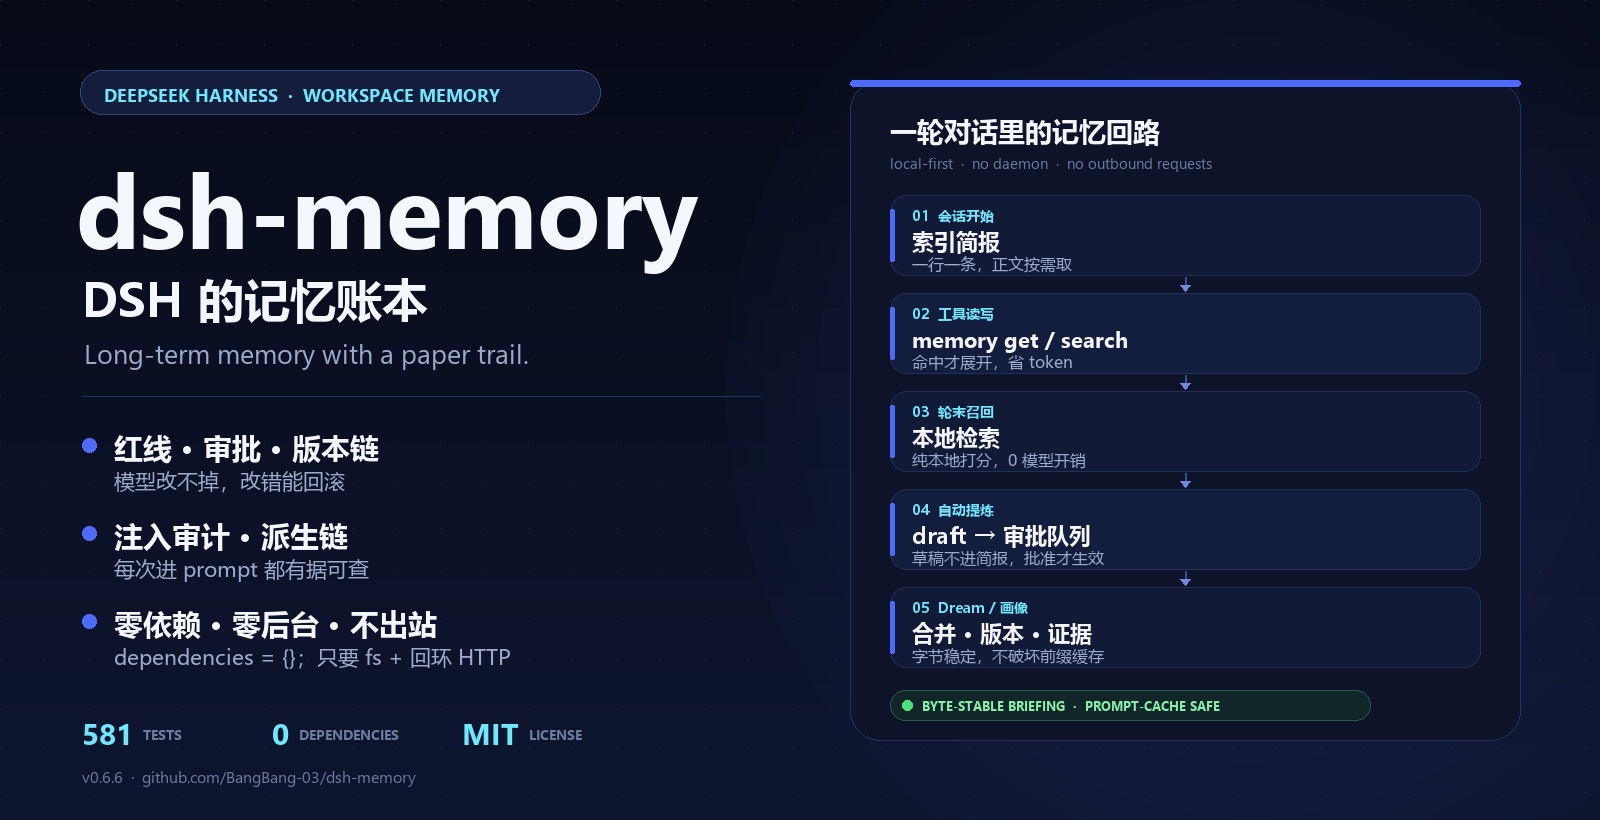
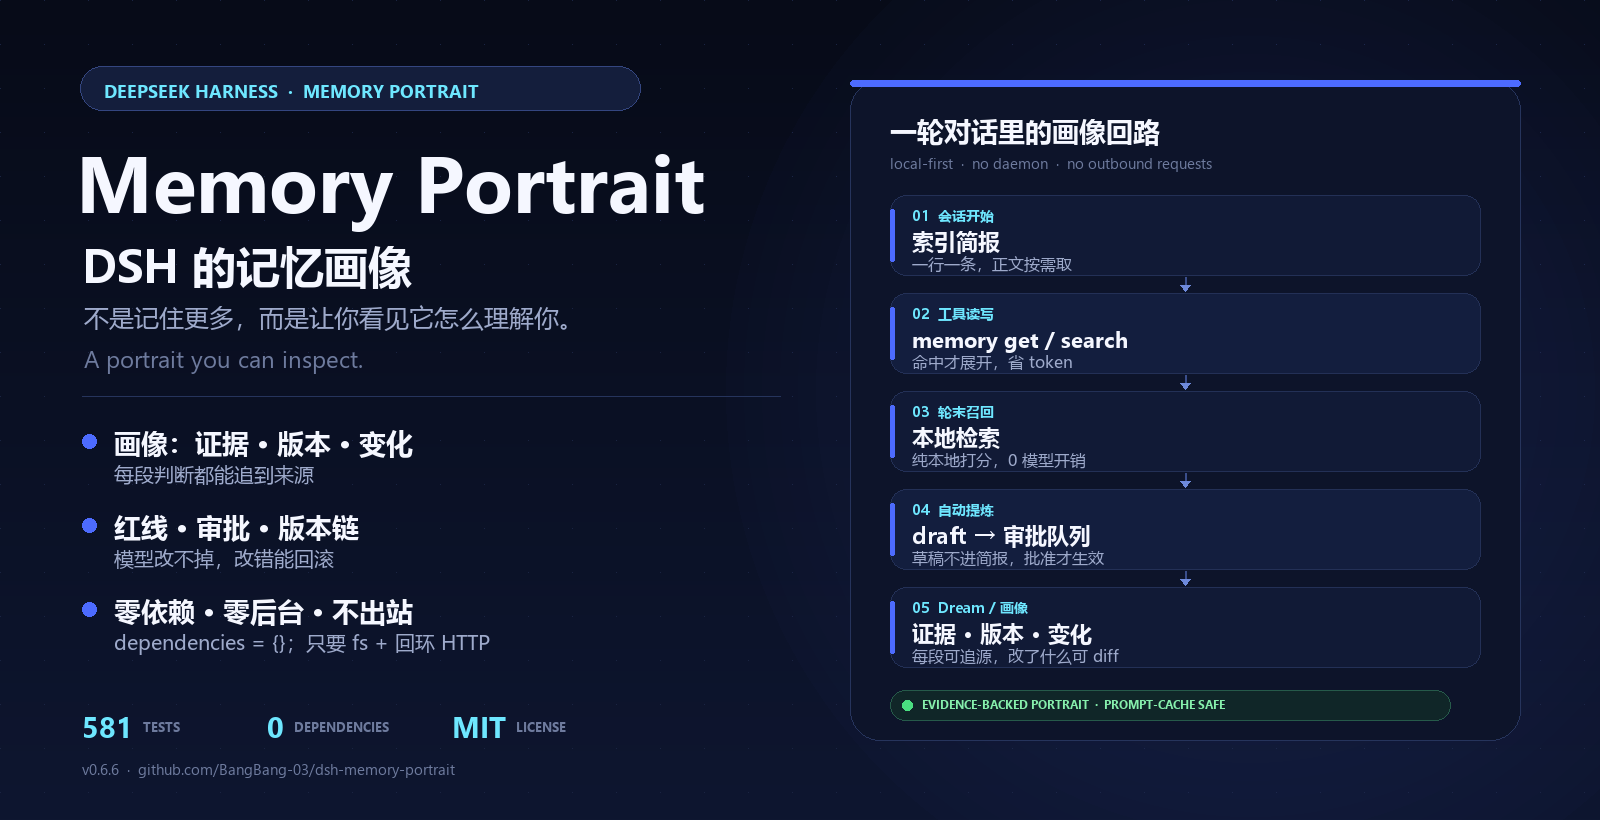
refactor: rename project to Memory Portrait (dsh-memory-portrait)

diff --git a/README.md b/README.md
@@ -1,27 +1,31 @@
-# dsh-memory
+# Memory Portrait · 记忆画像
 
-[![Release](https://img.shields.io/github/v/release/BangBang-03/dsh-memory?color=4d6bfe&label=release)](https://github.com/BangBang-03/dsh-memory/releases/latest)
+[![Release](https://img.shields.io/github/v/release/BangBang-03/dsh-memory-portrait?color=4d6bfe&label=release)](https://github.com/BangBang-03/dsh-memory-portrait/releases/latest)
 [![npm](https://img.shields.io/npm/v/@bangbang-03/dsh-memory?color=4d6bfe&label=npm)](https://www.npmjs.com/package/@bangbang-03/dsh-memory)
-[![License](https://img.shields.io/github/license/BangBang-03/dsh-memory?color=4d6bfe)](https://github.com/BangBang-03/dsh-memory/blob/main/LICENSE)
-[![Tests](https://img.shields.io/badge/tests-581%20passed-4d6bfe)](https://github.com/BangBang-03/dsh-memory#测试)
+[![License](https://img.shields.io/github/license/BangBang-03/dsh-memory-portrait?color=4d6bfe)](https://github.com/BangBang-03/dsh-memory-portrait/blob/main/LICENSE)
+[![Tests](https://img.shields.io/badge/tests-581%20passed-4d6bfe)](https://github.com/BangBang-03/dsh-memory-portrait#测试)
 
-**DSH 的工作区长期记忆：模型记得住项目，但改不掉你的红线。**<br>
-**Long-term memory for DeepSeek Harness, with a paper trail.**
+**DSH 的记忆画像：不是记住更多，而是让你看见它怎么理解你。**<br>
+**Long-term memory for DeepSeek Harness, with a portrait you can inspect.**
 
-![dsh-memory：一轮对话里的记忆回路](https://raw.githubusercontent.com/BangBang-03/dsh-memory/main/docs/assets/hero.png)
+![Memory Portrait：一轮对话里的记忆回路](https://raw.githubusercontent.com/BangBang-03/dsh-memory-portrait/main/docs/assets/hero.png)
 
 **中文** ｜ [English](#english)
 
-`dsh-memory` 把记忆按工作区落库：会话开始时注入一份**索引简报**（一行一条，正文按需用 `memory` 工具取，省 token），
+> 仓库名已改为 `dsh-memory-portrait`；npm 包名仍是 `@bangbang-03/dsh-memory`，安装命令不变。
+
+**Memory Portrait** 把记忆按工作区落库：会话开始时注入一份**索引简报**（一行一条，正文按需用 `memory` 工具取，省 token），
 轮次结束后用本地检索把相关记忆**召回**到下一轮，可选地把对话**自动提炼**成结构化记忆。
+它把「画像」放在首页：模型现在怎么理解你、每段判断来自哪条记忆、这一版和上一版差在哪里——有证据、有版本、能解释变化。
 和「自动多记一点」的插件不同，它把重点放在**记错了怎么办**：红线、审批队列、版本链、注入审计、派生链，全部能在 **设置 → 记忆** 里看到。
 
+- **画像是主视图**：每段挂证据，改了什么可 diff，源失效沿派生链标脏。
 - **省 token**：索引模式同样预算多装约 3 倍条目；简报字节稳定，不破坏 prompt 前缀缓存。
 - **可控**：自动提炼可先进审批队列；红线逐字置顶，模型不能删改；改稿留历史，可回滚。
 - **可审计**：每次注入都记录正文 hash、命中的记忆 id、被预算挤掉的条目；画像与 `AGENTS.md` 有派生链。
 - **零依赖**：`dependencies` 为空，只要 fs + 回环 HTTP；不 shell、不 env、不启子进程、不出站、不加载动态代码。
 
-> **English** — Long-term workspace memory for DeepSeek Harness, with redlines, an approval queue, a version chain, and an injection audit. Zero dependencies; no shell, env, or outbound requests. [Jump to English](#english).
+> **English** — Long-term workspace memory for DeepSeek Harness, with an inspectable portrait: every section carries evidence, versions, and diffs. Redlines, an approval queue, a version chain, and an injection audit are included. Zero dependencies; no shell, env, or outbound requests. [Jump to English](#english).
 
 ## 安装
 
@@ -30,7 +34,7 @@ DSH ≥ 0.2.0-rc.2，web / 桌面。
 ### 一条命令（推荐，web profile）
 
 ```powershell
-dsh plugin --profile web add "https://github.com/BangBang-03/dsh-memory/releases/latest/download/dsh-memory-latest.tgz"
+dsh plugin --profile web add "https://github.com/BangBang-03/dsh-memory-portrait/releases/latest/download/dsh-memory-latest.tgz"
 ```
 
 `/latest/` 永远取最新稳定版，不需要 clone，也不需要 npm。
@@ -45,7 +49,7 @@ dsh plugin --profile web add @bangbang-03/dsh-memory
 
 ### 桌面端
 
-把 [`install.ps1`](https://github.com/BangBang-03/dsh-memory/blob/main/install.ps1) 下载到任意目录，然后：
+把 [`install.ps1`](https://github.com/BangBang-03/dsh-memory-portrait/blob/main/install.ps1) 下载到任意目录，然后：
 
 ```powershell
 pwsh -File install.ps1 -FromRelease -Channel stable
@@ -56,8 +60,8 @@ pwsh -File install.ps1 -FromRelease -Channel stable
 ### 源码
 
 ```powershell
-git clone https://github.com/BangBang-03/dsh-memory.git
-cd dsh-memory
+git clone https://github.com/BangBang-03/dsh-memory-portrait.git
+cd dsh-memory-portrait
 pwsh -File install.ps1 -DryRun     # 先看一遍要改什么
 pwsh -File install.ps1             # 真装
 # 重启 DSH 桌面端
@@ -86,7 +90,9 @@ pwsh -File install.ps1             # 真装
 
 设置 → 记忆 → **从本机既有记忆导入**：扫描 WorkBuddy / Qoder / Claude Code / Codex / Windsurf 的既有记忆文件，只读扫描、按来源打标签；也可以直接粘 `/export` 的 JSON 或 Markdown。导入有新增时会后台触发一次画像重写（`feedPortrait: false` 可关）。
 
-## 记忆的账本
+## 画像与账本
+
+画像不是一句总结：每段有证据、版本和 diff；下面的机制保证它不会变成模型随手写的小抄。
 
 | 机制 | 作用 |
 | --- | --- |
@@ -98,9 +104,9 @@ pwsh -File install.ps1             # 真装
 | 整库快照 | 每天首次写入 + 每次 Dream 前备份，轮转 7 份；恢复 = 手工拷回库目录 |
 | 写入安全 | 密钥脱敏 + 注入模式 taint；非 user 来源 taint 隔离成草稿 |
 
-## 为什么不是「又一个自动记忆」
+## 为什么是「画像」
 
-如果你要的是「模型自动多记一点」，很多插件都能做。这个项目把重点放在**记错了怎么办**：红线、审批、版本链、注入审计、派生链。它不追求记住一切，而是让每一条被记住的东西有来源、有版本、能解释、能撤回。
+如果你要的是「模型自动多记一点」，很多插件都能做。Memory Portrait 把重点放在**它现在怎么理解你**：画像的每段有证据、有版本、能解释变化；写错了有红线、审批、版本链、注入审计。它不追求记住一切，而是让每一条被记住的东西有来源、有版本、能解释、能撤回。
 
 几个明确的取舍：
 
@@ -241,45 +247,45 @@ pwsh -File install.ps1             # 真装
 npm test   # 14 个套件 / 581 项断言
 ```
 
-- 检索：54 条记忆 × 60 条查询硬评测，Recall@5 1.000、MRR@10 0.930（自测口径，见 [评测说明](https://github.com/BangBang-03/dsh-memory/blob/main/docs/retrieval-eval-2026-10-20.md)）。
+- 检索：54 条记忆 × 60 条查询硬评测，Recall@5 1.000、MRR@10 0.930（自测口径，见 [评测说明](https://github.com/BangBang-03/dsh-memory-portrait/blob/main/docs/retrieval-eval-2026-10-20.md)）。
 - 安全：100 条密钥样本全部脱敏；20 条注入样本全部命中；20 条正常文本零误报。
 - 简报稳定性：会话级冻结、确定性排序、轮末召回尾部注入去重。
 - 客户端：把设置页真的渲染出来，接到真实 `store` + `api` 上驱动交互。
 
 ## 维护与发布
 
-- 分支：`main` 是唯一长期分支；推 `main` 只跑测试，正式版用 `v*` 标签发布；完整流程与验收见 [`skills/release/SKILL.md`](https://github.com/BangBang-03/dsh-memory/blob/main/skills/release/SKILL.md)。
+- 分支：`main` 是唯一长期分支；推 `main` 只跑测试，正式版用 `v*` 标签发布；完整流程与验收见 [`skills/release/SKILL.md`](https://github.com/BangBang-03/dsh-memory-portrait/blob/main/skills/release/SKILL.md)。
 - 发版：`node tools/release.mjs`，然后 `node tools/release-watch.mjs`。
-- 完整规格、历史章节、导入格式、测试明细与边界讨论：[`docs/REFERENCE.md`](https://github.com/BangBang-03/dsh-memory/blob/main/docs/REFERENCE.md)。
+- 完整规格、历史章节、导入格式、测试明细与边界讨论：[`docs/REFERENCE.md`](https://github.com/BangBang-03/dsh-memory-portrait/blob/main/docs/REFERENCE.md)。
 
 ## 文档
 
 | 想了解 | 读 |
 | --- | --- |
-| 完整规格（旧版 README 存档） | [docs/REFERENCE.md](https://github.com/BangBang-03/dsh-memory/blob/main/docs/REFERENCE.md) |
-| 检索方案与基线 | [docs/retrieval-eval-2026-10-20.md](https://github.com/BangBang-03/dsh-memory/blob/main/docs/retrieval-eval-2026-10-20.md) |
-| 简报为什么必须字节稳定 | [docs/briefing-cache-safety.md](https://github.com/BangBang-03/dsh-memory/blob/main/docs/briefing-cache-safety.md) |
-| 与 WorkBuddy 个人记忆的差距 | [docs/personal-memory-parity.md](https://github.com/BangBang-03/dsh-memory/blob/main/docs/personal-memory-parity.md) |
-| 市场扫描与竞品 | [docs/market-scan-2026-10.md](https://github.com/BangBang-03/dsh-memory/blob/main/docs/market-scan-2026-10.md) |
-| 发版流程 | [skills/release/SKILL.md](https://github.com/BangBang-03/dsh-memory/blob/main/skills/release/SKILL.md) |
+| 完整规格（旧版 README 存档） | [docs/REFERENCE.md](https://github.com/BangBang-03/dsh-memory-portrait/blob/main/docs/REFERENCE.md) |
+| 检索方案与基线 | [docs/retrieval-eval-2026-10-20.md](https://github.com/BangBang-03/dsh-memory-portrait/blob/main/docs/retrieval-eval-2026-10-20.md) |
+| 简报为什么必须字节稳定 | [docs/briefing-cache-safety.md](https://github.com/BangBang-03/dsh-memory-portrait/blob/main/docs/briefing-cache-safety.md) |
+| 与 WorkBuddy 个人记忆的差距 | [docs/personal-memory-parity.md](https://github.com/BangBang-03/dsh-memory-portrait/blob/main/docs/personal-memory-parity.md) |
+| 市场扫描与竞品 | [docs/market-scan-2026-10.md](https://github.com/BangBang-03/dsh-memory-portrait/blob/main/docs/market-scan-2026-10.md) |
+| 发版流程 | [skills/release/SKILL.md](https://github.com/BangBang-03/dsh-memory-portrait/blob/main/skills/release/SKILL.md) |
 
 ## 参与
 
-- 安装 / 使用问题：用 [issue 模板](https://github.com/BangBang-03/dsh-memory/issues/new/choose)
-- 想法与用法：[Discussions](https://github.com/BangBang-03/dsh-memory/discussions)
-- 贡献代码：[CONTRIBUTING.md](https://github.com/BangBang-03/dsh-memory/blob/main/CONTRIBUTING.md)
+- 安装 / 使用问题：用 [issue 模板](https://github.com/BangBang-03/dsh-memory-portrait/issues/new/choose)
+- 想法与用法：[Discussions](https://github.com/BangBang-03/dsh-memory-portrait/discussions)
+- 贡献代码：[CONTRIBUTING.md](https://github.com/BangBang-03/dsh-memory-portrait/blob/main/CONTRIBUTING.md)
 
 ## English
 
-`dsh-memory` is a long-term workspace memory plugin for **DeepSeek Harness**. It injects a compact index at session start, fetches bodies on demand, recalls relevant memories at turn end with a purely local search, and can distill conversations into structured memories that wait in an approval queue.
+`Memory Portrait` is a long-term workspace memory plugin for **DeepSeek Harness** (npm package: `@bangbang-03/dsh-memory`). It injects a compact index at session start, fetches bodies on demand, recalls relevant memories at turn end with a purely local search, and can distill conversations into structured memories that wait in an approval queue.
 
-What makes it different: memory is treated as a **governed artifact**. Redlines are injected verbatim and cannot be silently edited; every rewrite has a version chain; every injection is audited; portraits and `AGENTS.md` carry derivation links. `dependencies` is empty — no shell, no env, no outbound requests.
+What makes it different: the portrait is the main view. Every section carries evidence, versions, and diffs, so you can see how the agent understands the project and why that changed. Memory is treated as a **governed artifact**: redlines are injected verbatim and cannot be silently edited; every rewrite has a version chain; every injection is audited. `dependencies` is empty — no shell, no env, no outbound requests.
 
 ```powershell
 dsh plugin --profile web add @bangbang-03/dsh-memory
 ```
 
-If it saves you from re-explaining your project, a ⭐ helps others find it. Bugs and install issues: [open an issue](https://github.com/BangBang-03/dsh-memory/issues).
+If it saves you from re-explaining your project, a ⭐ helps others find it. Bugs and install issues: [open an issue](https://github.com/BangBang-03/dsh-memory-portrait/issues).
 
 ## License
 

diff --git a/docs/REFERENCE.md b/docs/REFERENCE.md
@@ -1,14 +1,17 @@
-# dsh-memory（完整规格存档）
+# Memory Portrait（dsh-memory 完整规格存档）
 
 > 这是 v0.6.6 的完整规格与历史章节存档。安装入口、配置表、HTTP 契约以根目录 [`README.md`](../README.md) 为准；
 > 这里保留旧版页面结构、设计说明、导入格式、测试明细与边界讨论，方便查细节。
 >
+> 2026-10-28 仓库更名为 `dsh-memory-portrait`（品牌 Memory Portrait / 记忆画像）；npm 包名仍为
+> `@bangbang-03/dsh-memory`，安装命令不变。文中旧仓库链接会由 GitHub 自动重定向。
+>
 > 2026-10-28 起仓库已改为单一 `main` + `v*` 标签发布；文中「lab / main 双线」与 `lab-latest`
 > 相关章节是历史，当前流程见 [`skills/release/SKILL.md`](../skills/release/SKILL.md)。
 
-[![Release](https://img.shields.io/github/v/release/BangBang-03/dsh-memory?color=4d6bfe&label=release)](https://github.com/BangBang-03/dsh-memory/releases/latest)
-[![License](https://img.shields.io/github/license/BangBang-03/dsh-memory?color=4d6bfe)](https://github.com/BangBang-03/dsh-memory/blob/main/LICENSE)
-[![Tests](https://img.shields.io/badge/tests-581%20passed-4d6bfe)](https://github.com/BangBang-03/dsh-memory#测试)
+[![Release](https://img.shields.io/github/v/release/BangBang-03/dsh-memory-portrait?color=4d6bfe&label=release)](https://github.com/BangBang-03/dsh-memory-portrait/releases/latest)
+[![License](https://img.shields.io/github/license/BangBang-03/dsh-memory-portrait?color=4d6bfe)](https://github.com/BangBang-03/dsh-memory-portrait/blob/main/LICENSE)
+[![Tests](https://img.shields.io/badge/tests-581%20passed-4d6bfe)](https://github.com/BangBang-03/dsh-memory-portrait#测试)
 
 DSH 的**工作区长期记忆**插件。对标 Qoder / WorkBuddy / ZCode 的记忆交互：记忆以当前工作区为单位落库，
 会话开始时把最重要的几条以**索引**形式注入系统提示（一行一条，正文按需用 `memory` 工具取，省 token），
@@ -16,7 +19,7 @@ DSH 的**工作区长期记忆**插件。对标 Qoder / WorkBuddy / ZCode 的记
 提炼结果可以直接落库，也可以先进**待审队列**由你批准。全部记忆都能在 **设置 → 记忆** 里管理：
 记忆库（档案 / 列表）、时间线、健康体检、审批队列。
 
-**哪个 `dsh-memory` 是这个**：`BangBang-03/dsh-memory`（npm 名 `@bangbang-03/dsh-memory`）。市场目录里有十几个同名包，认作者与仓库。
+**哪个 `dsh-memory` 是这个**：`BangBang-03/dsh-memory-portrait`（npm 名 `@bangbang-03/dsh-memory`）。市场目录里有十几个同名包，认作者与仓库。
 
 **它要什么权限**：只用 `fs-read` / `fs-write`（读你自己的记忆库）+ 本机回环 HTTP（`/memory/api`，只监听回环地址）。
 **不要 shell、不要环境变量、不启子进程、不发出站请求、不加载动态代码**；`dependencies` 为空，`lib/*.js` 只 import
@@ -27,7 +30,7 @@ DSH 的**工作区长期记忆**插件。对标 Qoder / WorkBuddy / ZCode 的记
 三分钟装好（DSH ≥ 0.2.0-rc.2，web / 桌面）：
 
 ```powershell
-git clone https://github.com/BangBang-03/dsh-memory.git
+git clone https://github.com/BangBang-03/dsh-memory-portrait.git
 cd dsh-memory
 pwsh -File install.ps1 -DryRun     # 先看一遍要改什么
 pwsh -File install.ps1             # 真装
@@ -39,7 +42,7 @@ pwsh -File install.ps1             # 真装
 ```powershell
 pwsh -File install.ps1 -FromRelease -Channel stable   # 脚本自己下 tarball 并解包到 ~/.dsh/plugins/dsh-memory
 # 或显式给 URL（同一个资产）：
-pwsh -File install.ps1 -FromUrl https://github.com/BangBang-03/dsh-memory/releases/latest/download/dsh-memory-latest.tgz
+pwsh -File install.ps1 -FromUrl https://github.com/BangBang-03/dsh-memory-portrait/releases/latest/download/dsh-memory-latest.tgz
 ```
 
 > 市场目录里的 install 命令是收录当天（2026-10-17）写死的 `v0.5.1` tarball，**不会随发版更新**。
@@ -226,7 +229,7 @@ pwsh -File install.ps1             # 真装
 # 重启 DSH 桌面端
 ```
 
-不想 clone 也可以直接下 [Releases](https://github.com/BangBang-03/dsh-memory/releases/latest)
+不想 clone 也可以直接下 [Releases](https://github.com/BangBang-03/dsh-memory-portrait/releases/latest)
 里的 `Source code (zip)`，解压后同一个目录结构、同样跑 `install.ps1`。
 
 回滚：

diff --git a/docs/launch-copy-2026-10-28.md b/docs/launch-copy-2026-10-28.md
@@ -13,7 +13,7 @@
 安装口令（统一用 Release 资产，拿到最新稳定版）：
 
 ```powershell
-dsh plugin --profile web add "https://github.com/BangBang-03/dsh-memory/releases/latest/download/dsh-memory-latest.tgz"
+dsh plugin --profile web add "https://github.com/BangBang-03/dsh-memory-portrait/releases/latest/download/dsh-memory-latest.tgz"
 ```
 
 ## V2EX
@@ -31,7 +31,7 @@ dsh plugin --profile web add "https://github.com/BangBang-03/dsh-memory/releases
 > - 每次真正进 prompt 的内容都有正文 hash、命中的 id、被预算挤掉的条目；
 > - 画像 / AGENTS.md 有派生链，源记忆失效会沿链标脏。
 >
-> 零运行时依赖，不 shell、不 env、不启子进程、不出站；581 条测试。代码：https://github.com/BangBang-03/dsh-memory
+> 零运行时依赖，不 shell、不 env、不启子进程、不出站；581 条测试。代码：https://github.com/BangBang-03/dsh-memory-portrait
 >
 > 想听两类反馈：① 你更想要“自动多记”还是“先审后记”；② 面板里哪个信息你最常看。
 
@@ -41,7 +41,7 @@ dsh plugin --profile web add "https://github.com/BangBang-03/dsh-memory/releases
 >
 > 会话开始注入索引简报，轮末本地召回，自动提炼可以先进审批队列；红线逐字置顶，版本链可回滚，每次注入都有审计。
 >
-> 零依赖、不出站、581 条测试。https://github.com/BangBang-03/dsh-memory
+> 零依赖、不出站、581 条测试。https://github.com/BangBang-03/dsh-memory-portrait
 
 ## X / Twitter
 
@@ -59,7 +59,7 @@ I built dsh-memory — long-term workspace memory with redlines, an approval que
 Redlines are injected verbatim, edits keep history, every injection has a hash + ids, and portraits/AGENTS.md have derivation links.
 
 4/ Zero runtime dependencies. No shell, no env, no outbound requests. 581 tests.
-https://github.com/BangBang-03/dsh-memory
+https://github.com/BangBang-03/dsh-memory-portrait
 
 ## Reddit r/DeepSeek
 
@@ -77,7 +77,7 @@ Body:
 > - portraits and AGENTS.md carry derivation links
 >
 > Zero runtime dependencies; no shell, no env, no outbound requests. 581 tests.
-> Repo: https://github.com/BangBang-03/dsh-memory
+> Repo: https://github.com/BangBang-03/dsh-memory-portrait
 >
 > Happy to hear which tradeoff you'd pick: auto-capture by default, or review-first?
 

diff --git a/AGENTS.md b/AGENTS.md
@@ -1,6 +1,6 @@
 # AGENTS.md
 
-DSH 的工作区长期记忆插件（真包名 `@bangbang-03/dsh-memory`）。本文件只放两样东西：**改代码不能踩的红线**、
+DSH 的工作区记忆画像插件（真包名 `@bangbang-03/dsh-memory`）。本文件只放两样东西：**改代码不能踩的红线**、
 **改什么该动哪个文件的路由表**。设计取舍、竞品对标、机制细节在 `docs/REFERENCE.md`（根 `README.md` 只留安装、
 快速开始与配置 / HTTP 契约），不要往这里抄。
 
